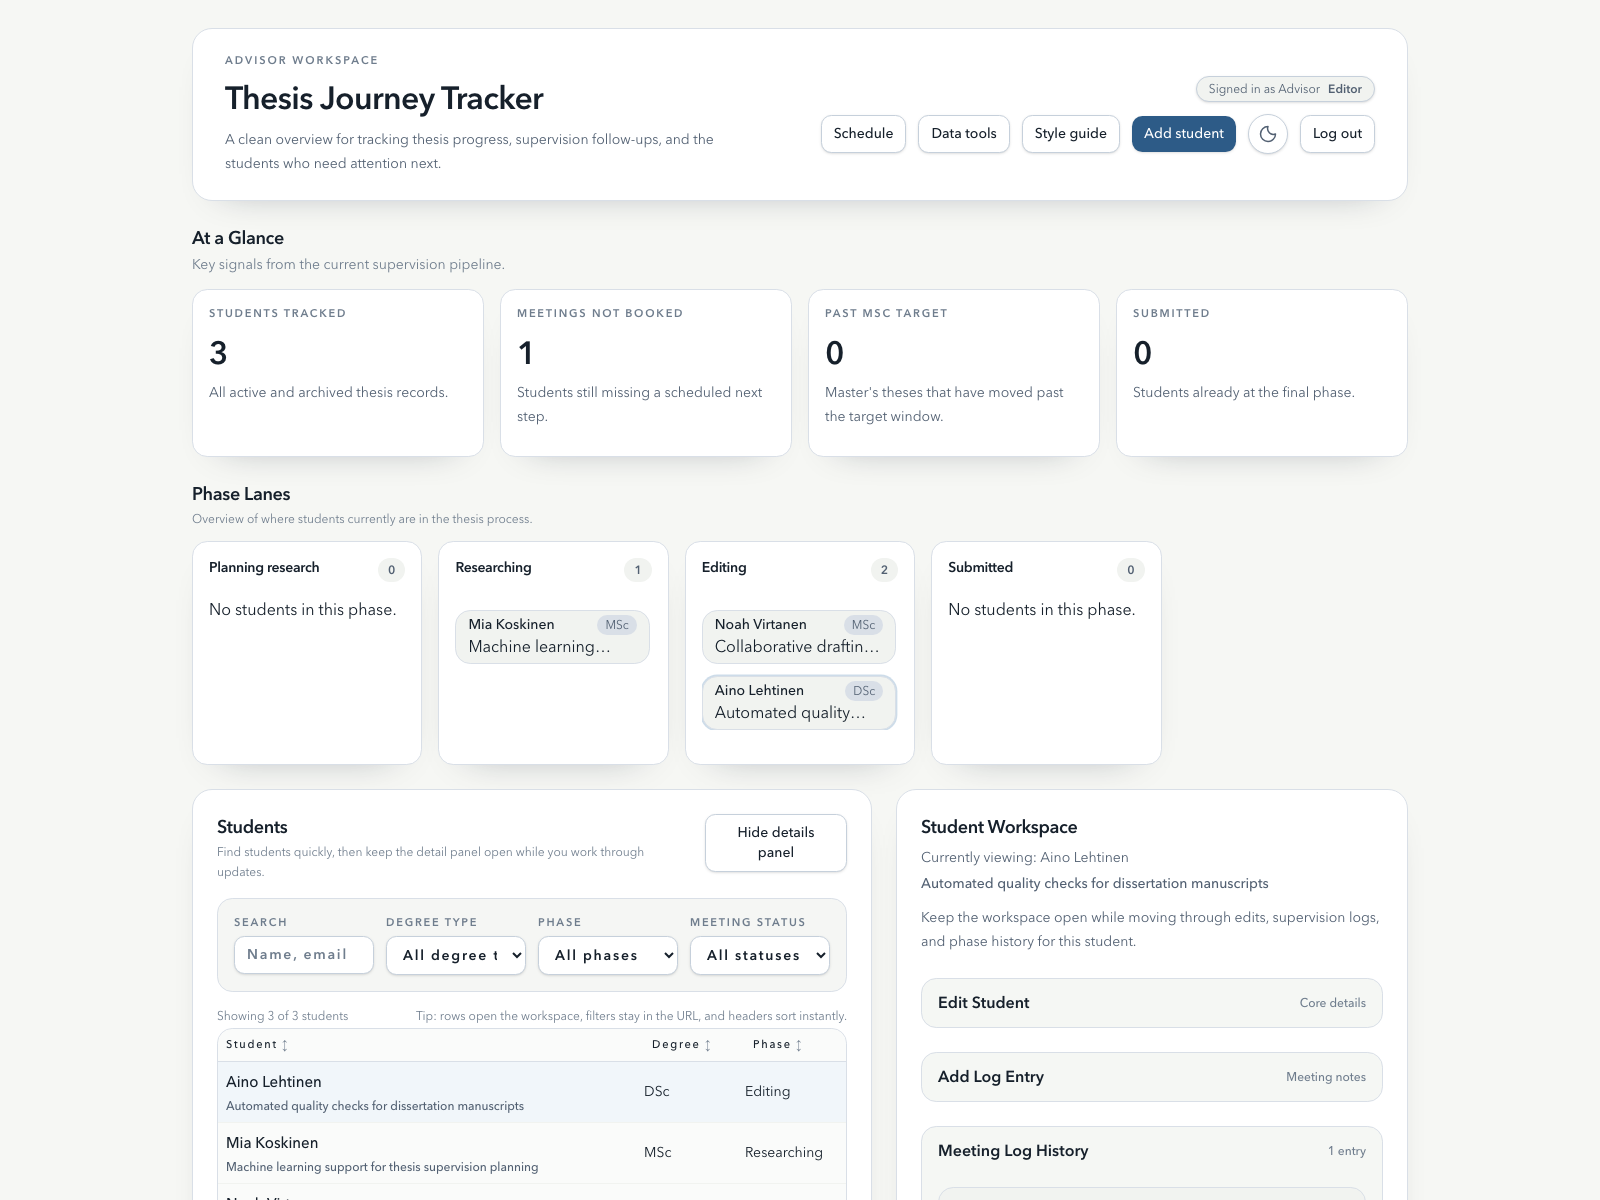
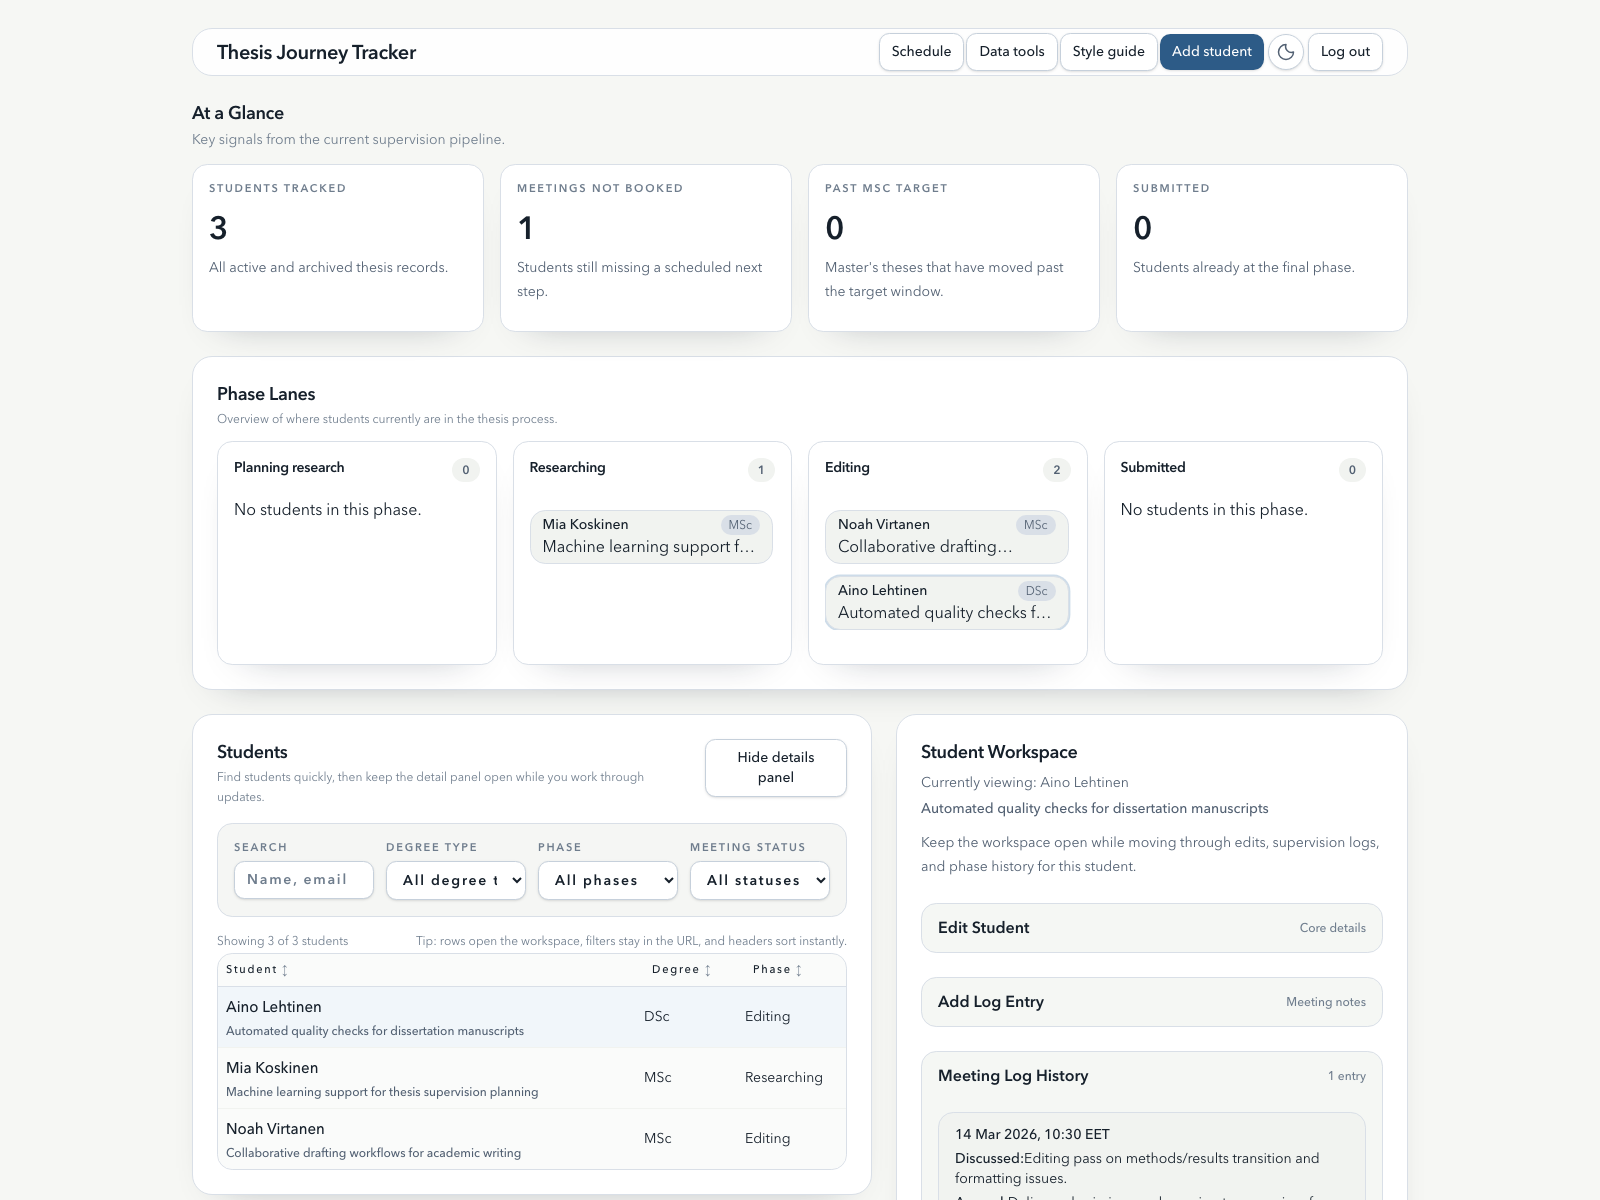
Compact sticky header across app

diff --git a/src/view/shared.htmlisp.ts b/src/view/shared.htmlisp.ts
@@ -131,22 +131,24 @@ export function renderAuthedPageHeader(title: string, description: string, actio
   </button>`,
     AuthHeader: `<header &class="(get props headerClass)">
     <div class="min-w-0">
-      <p class="text-[11px] font-semibold uppercase tracking-[0.18em] text-app-text-muted dark:text-app-text-muted-dark">Advisor Workspace</p>
-      <h1 class="mt-2 text-2xl font-semibold sm:text-[2rem]" &children="(get props title)"></h1>
+      <p class="sr-only">Advisor Workspace</p>
+      <h1 class="text-lg font-semibold leading-tight sm:text-xl" &children="(get props title)"></h1>
       <p &class="(get props descriptionClass)" &children="(get props description)"></p>
     </div>
-    <div class="flex flex-wrap items-center gap-badge-pill-y sm:justify-end sm:gap-stack-xs">
+    <div class="flex items-center justify-between gap-badge-y sm:flex-nowrap sm:justify-end sm:gap-badge-pill-y">
       <div &class="(get props viewerSummaryClass)">
         <span &children="(get props viewerNameText)"></span>
         <span class="font-semibold" &children="(get props viewerRoleText)"></span>
       </div>
-      <div class="flex flex-wrap items-center gap-badge-pill-y sm:gap-stack-xs">
+      <div &class="(get props actionsRowClass)">
         <noop &children="(get props actionsHtml)"></noop>
       </div>
-      <ThemeToggleButton &className="(get props themeToggleClass)" />
-      <form action="/logout" method="post">
-        <noop &children="(get props logoutButtonHtml)"></noop>
-      </form>
+      <div class="flex shrink-0 items-center gap-badge-y sm:gap-badge-pill-y">
+        <ThemeToggleButton &className="(get props themeToggleClass)" />
+        <form action="/logout" method="post">
+          <noop &children="(get props logoutButtonHtml)"></noop>
+        </form>
+      </div>
     </div>
   </header>`,
   };
@@ -160,6 +162,7 @@ export function renderAuthedPageHeader(title: string, description: string, actio
       &viewerSummaryClass="(get props viewerSummaryClass)"
       &viewerNameText="(get props viewerNameText)"
       &viewerRoleText="(get props viewerRoleText)"
+      &actionsRowClass="(get props actionsRowClass)"
       &actionsHtml="(get props actionsHtml)"
       &themeToggleClass="(get props themeToggleClass)"
       &logoutButtonHtml="(get props logoutButtonHtml)"
@@ -168,12 +171,15 @@ export function renderAuthedPageHeader(title: string, description: string, actio
       headerClass: escapeHtml(HEADER_CARD),
       title: escapeHtml(title),
       description: escapeHtml(description),
-      descriptionClass: escapeHtml(`mt-2 max-w-2xl ${SUBTLE_TEXT}`),
+      descriptionClass: escapeHtml("sr-only"),
       viewerSummaryClass: escapeHtml(
-        "inline-flex items-center gap-badge-x rounded-full border border-app-field bg-app-surface-soft px-control-x py-badge-pill-y text-xs text-app-text-soft shadow-sm dark:border-app-field-dark dark:bg-app-surface-soft-dark/70 dark:text-app-text-soft-dark",
+        "sr-only",
       ),
       viewerNameText: escapeHtml(`Signed in as ${viewer.name}`),
       viewerRoleText: escapeHtml(viewer.role === "readonly" ? "Read-only" : "Editor"),
+      actionsRowClass: escapeHtml(
+        "flex min-w-0 flex-1 items-center gap-badge-y overflow-x-auto pb-0.5 pr-badge-y sm:flex-nowrap sm:justify-end sm:overflow-visible sm:pb-0 sm:pr-0 [&>*]:shrink-0",
+      ),
       actionsHtml,
       themeToggleClass: escapeHtml(THEME_TOGGLE_BUTTON),
       logoutButtonHtml: renderButton({

diff --git a/src/ui/styles.ts b/src/ui/styles.ts
@@ -5,7 +5,7 @@ export const BODY_CLASS_LOGIN = "h-full bg-app-canvas text-app-text antialiased 
 export const PAGE_WRAP = "mx-auto max-w-layout space-y-stack px-page-x py-page-y sm:px-page-x-sm lg:px-page-x-lg";
 export const PAGE_WRAP_NARROW = "mx-auto max-w-layout-narrow space-y-stack px-page-x py-page-y sm:px-page-x-sm lg:px-page-x-lg";
 export const HEADER_CARD =
-  "relative flex flex-col gap-panel-sm overflow-hidden rounded-panel border border-app-line bg-app-surface px-panel py-panel-sm shadow-panel dark:border-app-line-dark dark:bg-app-surface-dark sm:flex-row sm:items-center sm:justify-between sm:px-panel-lg sm:py-panel";
+  "sticky top-2 z-40 flex flex-col gap-badge-y overflow-hidden rounded-panel border border-app-line bg-app-surface/92 px-panel-sm py-badge-pill-y shadow-panel backdrop-blur supports-[backdrop-filter]:bg-app-surface/88 dark:border-app-line-dark dark:bg-app-surface-dark/92 dark:supports-[backdrop-filter]:bg-app-surface-dark/84 sm:top-3 sm:flex-row sm:items-center sm:justify-between sm:gap-stack-xs sm:px-panel sm:py-badge-pill-y";
 export const SURFACE_CARD =
   "rounded-panel border border-app-line bg-app-surface p-panel shadow-panel dark:border-app-line-dark dark:bg-app-surface-dark";
 export const SURFACE_CARD_SM =
@@ -33,7 +33,7 @@ export const FOCUS_RING =
   "focus-visible:outline-hidden focus-visible:ring-2 focus-visible:ring-app-brand focus-visible:ring-offset-2 dark:focus-visible:ring-offset-app-surface-dark";
 export const TEXT_LINK = `underline-offset-2 hover:underline ${FOCUS_RING}`;
 export const STATUS_BADGE = "rounded-control px-badge-pill-x py-badge-pill-y text-xs";
-export const THEME_TOGGLE_BUTTON = `inline-flex h-10 w-10 items-center justify-center rounded-full border border-app-field bg-app-surface text-sm font-medium text-app-text shadow-sm hover:bg-app-surface-soft dark:border-app-field-dark dark:bg-app-surface-dark dark:text-app-text-dark dark:hover:bg-app-surface-soft-dark ${FOCUS_RING}`;
+export const THEME_TOGGLE_BUTTON = `inline-flex h-8 w-8 items-center justify-center rounded-full border border-app-field bg-app-surface text-sm font-medium text-app-text shadow-sm hover:bg-app-surface-soft dark:border-app-field-dark dark:bg-app-surface-dark dark:text-app-text-dark dark:hover:bg-app-surface-soft-dark sm:h-9 sm:w-9 ${FOCUS_RING}`;
 export const DANGER_PANEL =
   "rounded-panel border border-app-danger-line bg-app-danger-soft/70 p-panel-sm dark:border-app-danger-soft-dark/60 dark:bg-app-danger-soft-dark/35";
 export const DANGER_TITLE = "text-lg font-semibold text-app-danger-text dark:text-app-danger-text-dark";
